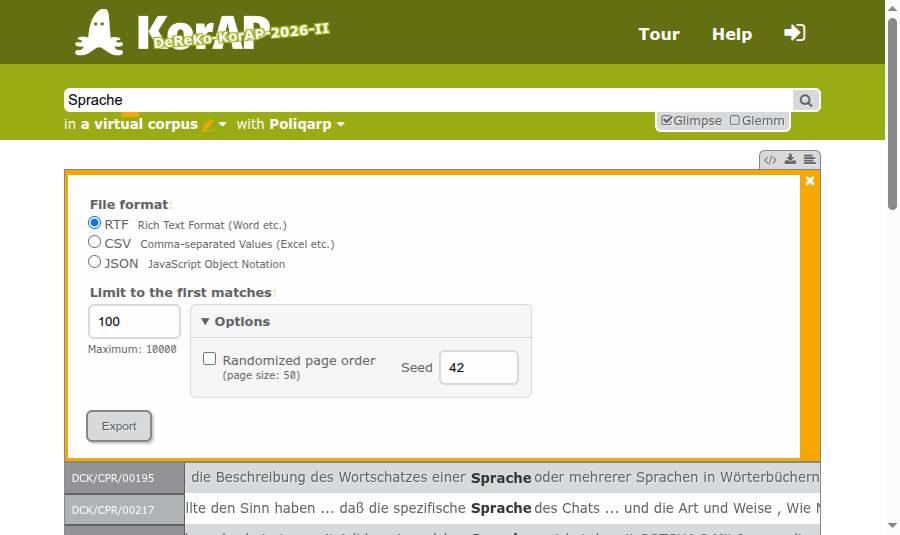
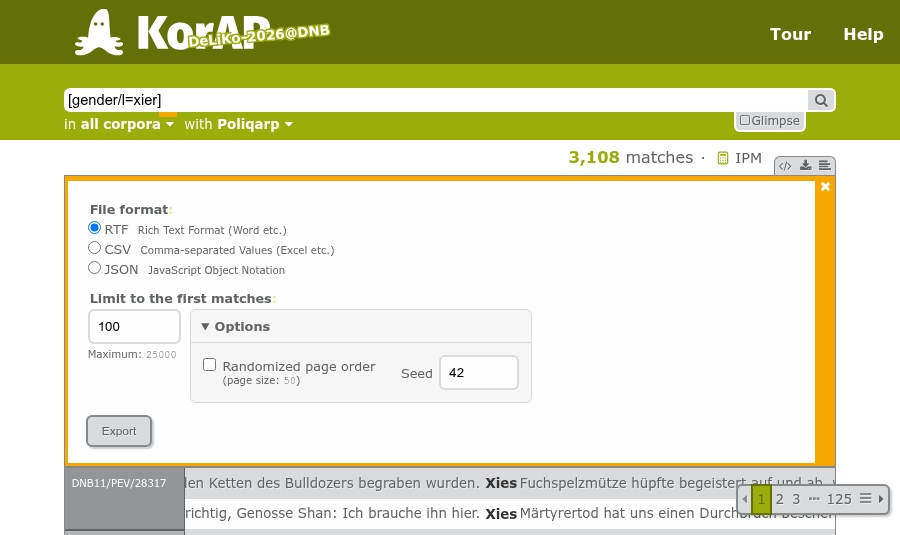
Change back example query
Show the neopronoun xier using the gender lemma annotation layer in
the built-in export screenshot.

diff --git a/README.md b/README.md
@@ -1,6 +1,6 @@
 # Kalamar-Plugin-Export
 
-![Kalamar search results with the built-in export form open](misc/kalamar-export-screenshot.png)
+![Kalamar results for `[gender/l=xier]` with the built-in export form open](misc/kalamar-export-screenshot.png)
 
 ## Description
 
